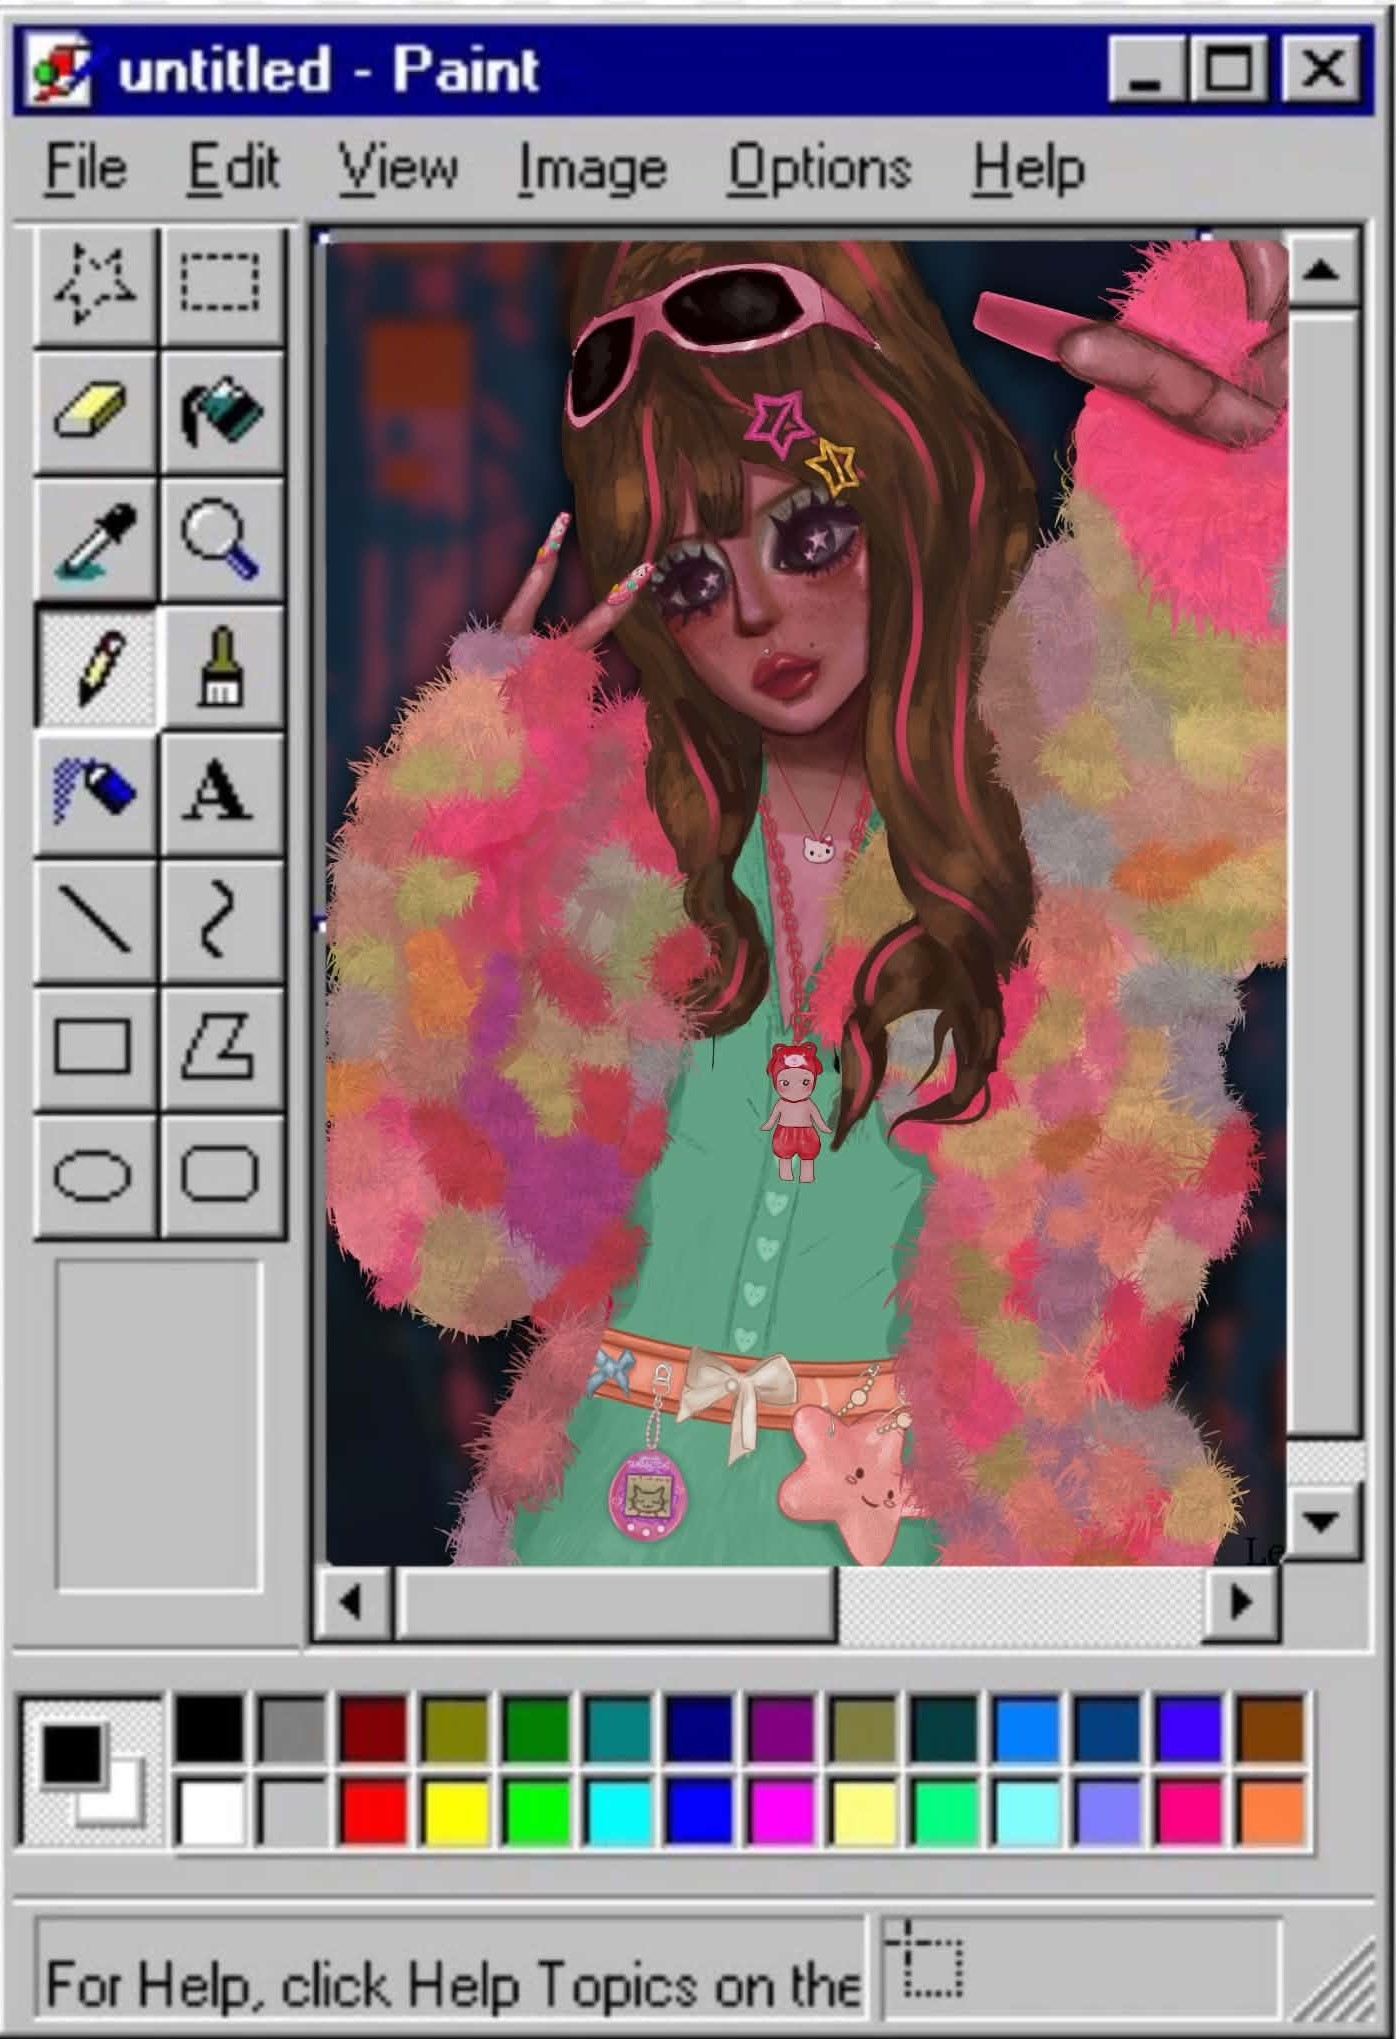
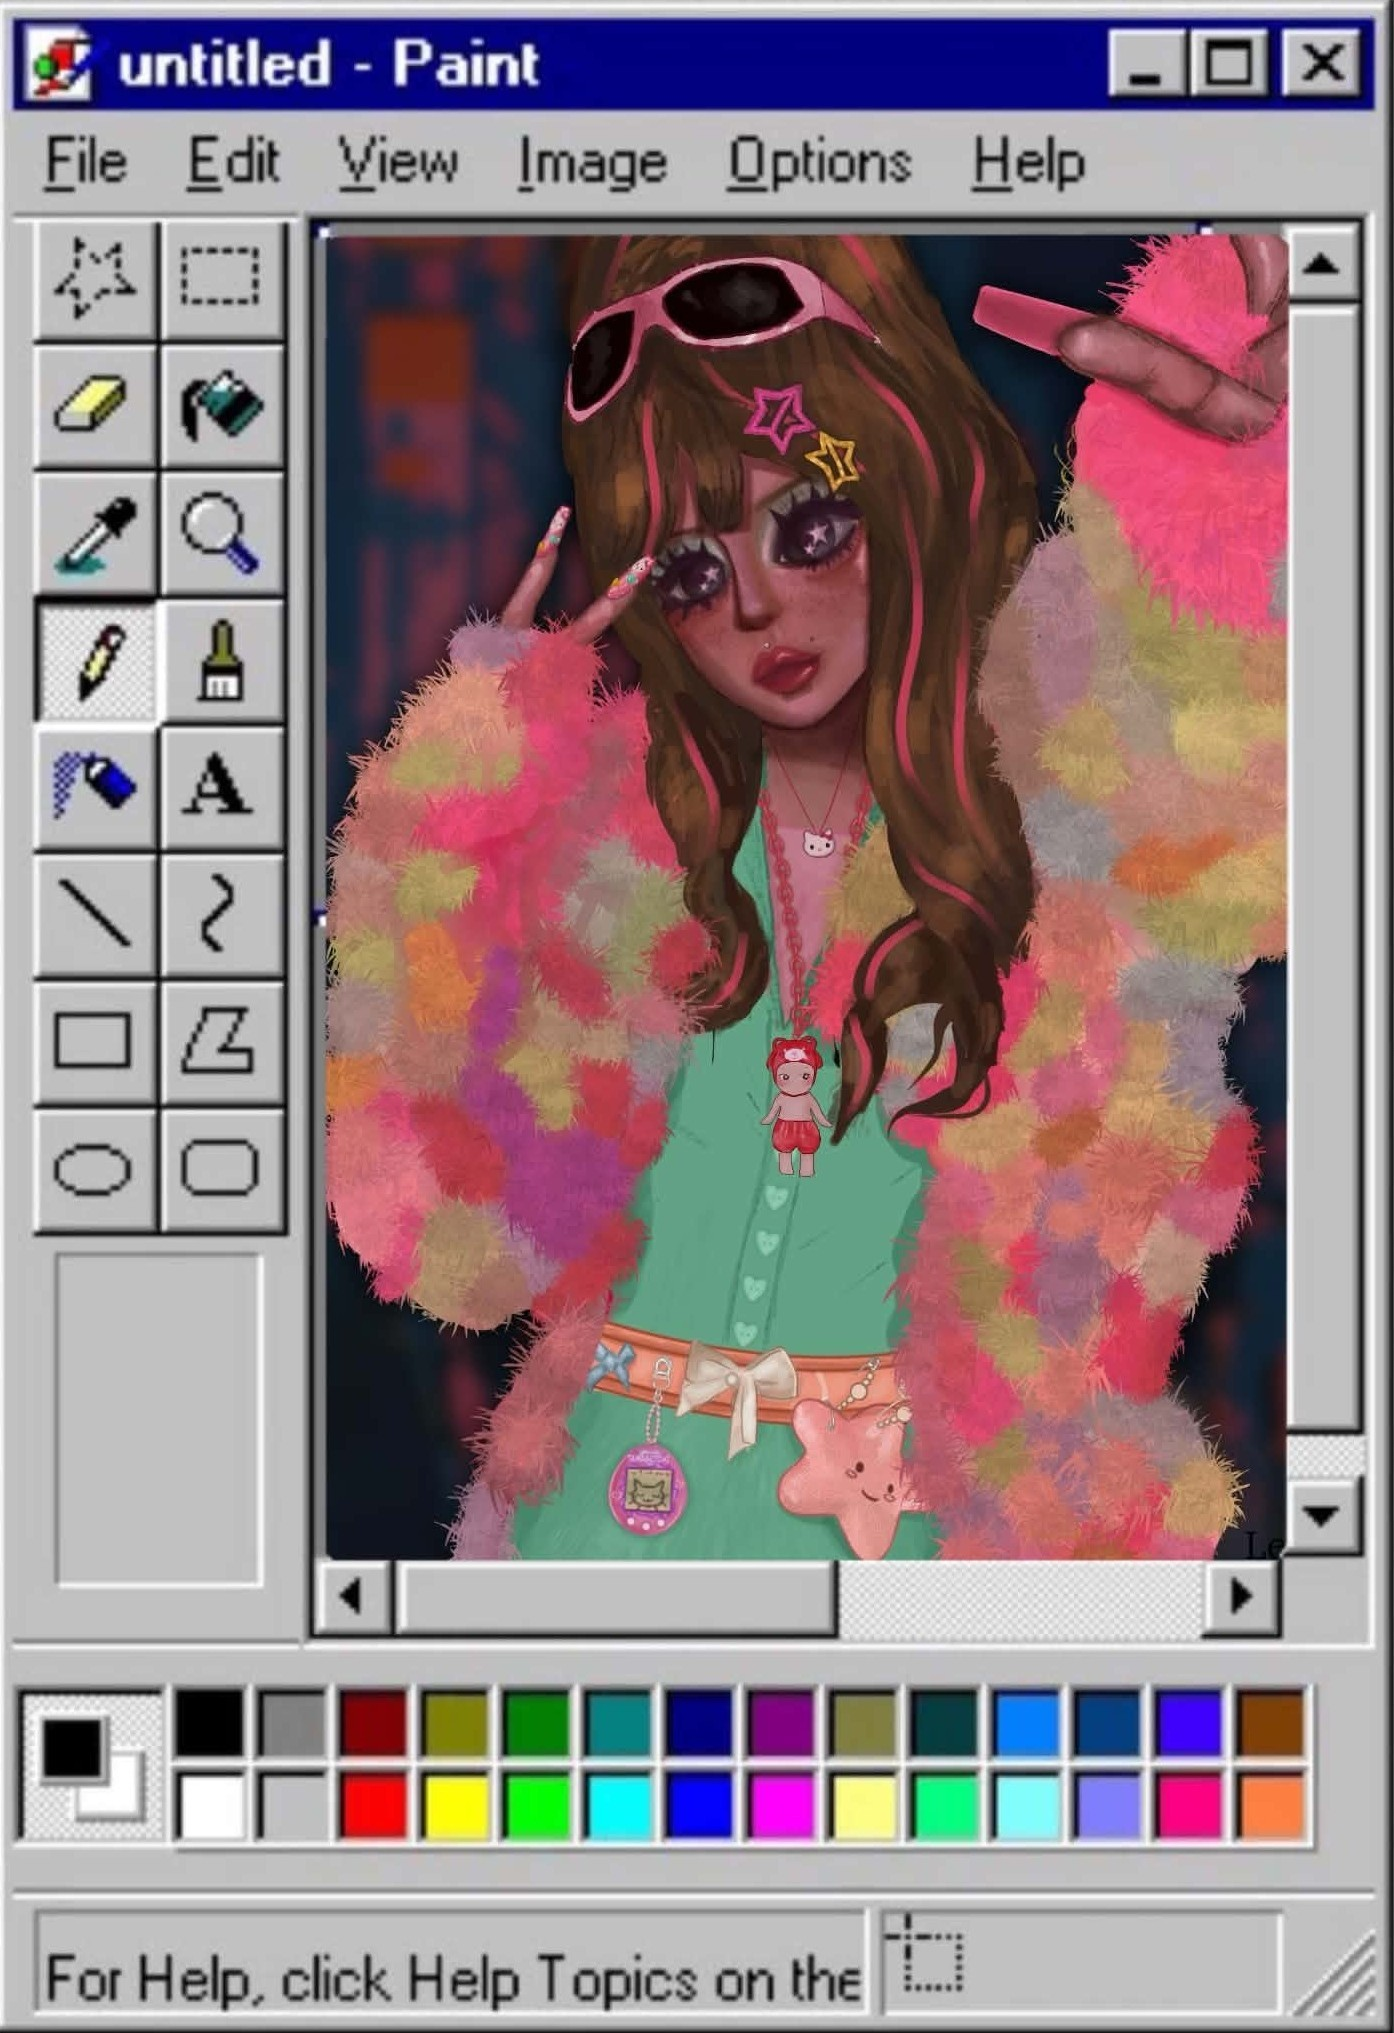
small changes

diff --git a/aboutMe.css b/aboutMe.css
@@ -224,8 +224,7 @@ figure, p, h1, h2 { margin: 0; }
 .scrapbook-sky img { object-position: center 44%; }
 .favorites-grid { display: grid; grid-template-columns: repeat(2, minmax(0, 1fr)); align-content: start; gap: 18px; }
 .favorites-grid .image-frame { aspect-ratio: 1; }
-.favorite-pet { border-color: #bb9eca; }
-.favorite-pet img { padding: 15px 15px 32px; object-fit: contain; image-rendering: pixelated; background: radial-gradient(ellipse at 40% 20%, #fff2fc, #e0d8f7 65%, #c4e9f4); }
+.favorite-photo { border-color: #bb9eca; }
 .favorite-art { border-color: #d0a1bb; }
 .favorite-art img { object-position: center 23%; }
 .favorite-project img { object-position: center 32%; }
@@ -330,7 +329,6 @@ figure, p, h1, h2 { margin: 0; }
   .about-copy { padding: 21px 18px 14px; }
   .intro-greeting { font-size: 25px; }
   .favorites-grid { gap: 12px; }
-  .favorite-pet img { padding: 9px 9px 27px; }
   .image-frame figcaption { padding: 3px 4px; font-size: 8px; }
   .scrapbook-banner figcaption, .scrapbook-sky figcaption { font-size: 8px; }
   .platform-strip { gap: 10px; margin-top: 21px; padding-top: 12px; }

diff --git a/aboutMe.html b/aboutMe.html
@@ -94,8 +94,8 @@
                 <img src="bilder/blue.jpg" alt="A dreamy blue sky filled with glowing stars, bubbles, and music notes" width="735" height="463">
               </figure>
               <div class="favorites-grid">
-                <figure class="image-frame favorite-pet">
-                  <img src="bilder/megpinkoutfit.png" alt="Me with a lolita-inspired pink outfit" width="1024" height="1024" loading="lazy">
+                <figure class="image-frame favorite-photo">
+                  <img src="bilder/megpinkoutfit.png" alt="Me with a lolita-inspired pink outfit" width="1260" height="1260" loading="lazy">
                 </figure>
                 <figure class="image-frame favorite-art">
                   <img src="bilder/hellokittyswing.gif" alt="Animated hello kitty swinging" width="1396" height="2039" loading="lazy">
